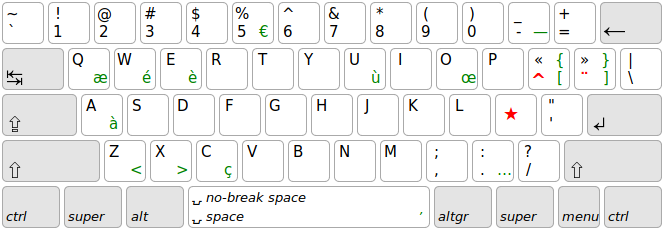
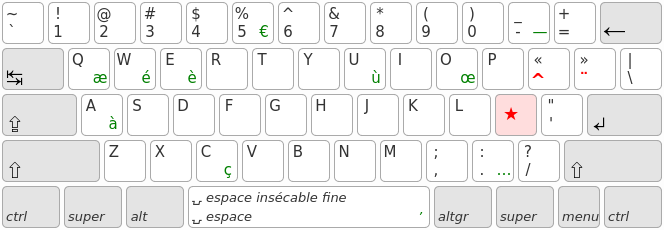
Better explanation of the AltGr layer. (#105)

diff --git a/index.html b/index.html
@@ -463,14 +463,14 @@
       <p>
         Sous la main droite, un pavé numérique virtuel (comparable à ceux des
         portables) est proposé. Il n’est pas très facile d’accès sous Linux (pas
-        de touche <kbd>AltGr</kbd> / <kbd>Ctrl+Alt</kbd> à gauche) mais permet
-        néanmoins de saisir rapidement des (0) ou [0], très fréquents dans les
-        langages de programmation.
+        de touche <kbd>AltGr</kbd> / <kbd>Ctrl</kbd><kbd>Alt</kbd> à gauche)
+        mais permet néanmoins de saisir rapidement des (0) ou [0], très
+        fréquents dans les langages de programmation.
       </p>
     </div>
   </div>
 
-  <h2 id="download"> Téléchargement </h2>
+  <h2 id="download"> Téléchargement <a href="#download">#</a> </h2>
   <dl class="download">
     <dt>
       <strong> Windows : </strong>
@@ -531,11 +531,13 @@
     </dd>
   </dl>
 
-  <h2 id="changelog"> Notes de version </h2>
+  <h2 id="changelog"> Notes de version <a href="#changelog">#</a> </h2>
   <dl>
     <dt> v0.8 (2023-01-22) </dt>
     <dd> <kbd>Shift</kbd><kbd>Espace</kbd> produit désormais une insécable fine. </dd>
-    <dd> La couche AltGr a été légèrement modifiée pour faciliter l’accès au tiret. </dd>
+    <dd> <kbd>AltGr</kbd><kbd>Espace</kbd> produit désormais une espace normale. </dd>
+    <dd> Les accolades, crochets et chevrons <code>{}[]&lt;&gt;</code> ne peuvent
+      plus se faire avec la touche morte, et nécessitent désormais <kbd>AltGr</kbd>. </dd>
     <dd> La couche AltGr de la variante <a href="./42">Lafayette42</a> est
       complètement revue pour la compatibilité avec les claviers 40% (42 et 34
       touches). </dd>
@@ -545,7 +547,7 @@
     <dd> La couche AltGr a été modifiée pour faciliter certains
       enchaînements : <code>+=</code>, <code>-=</code>, <code>=&gt;</code>,
       <code>('')</code>, <code>~/</code>, etc. </dd>
-    <dd> <kbd>AltGr</kbd><kbd>Espace</kbd> ne produit plus Escape
+    <dd> <kbd>AltGr</kbd><kbd>Espace</kbd> ne produit plus <kbd>Escape</kbd>
       (impossible à implémenter sous Windows).</dd>
 
     <dt> v0.5 (2015-12-10) </dt>
@@ -561,18 +563,18 @@
           <kbd>H</kbd><kbd>J</kbd><kbd>K</kbd><kbd>L</kbd> —
           <i>Vim powwa!</i> </li>
       </ul>
-      Mac OSX : meilleur fonctionnement des touches mortes en <kbd>CapsLock</kbd>. <br />
-      Linux : meilleur fonctionnement de la touche <kbd>AltGr</kbd> sous Chromium.
     </dd>
+    <dd> Mac OSX : meilleur fonctionnement des touches mortes en <kbd>CapsLock</kbd>. </dd>
+    <dd> Linux : meilleur fonctionnement de la touche <kbd>AltGr</kbd> sous Chromium. </dd>
 
     <dt> v0.2.1 (2013-03-05) </dt>
-    <dd> Linux : correction mineure. </dd>
+    <dd> Linux : correction du pilote XKB. </dd>
 
     <dt> v0.2 (2010-11-16) </dt>
     <dd> Windows : première version publique. </dd>
-    <dd> OSX : correction d’une erreur XML qui rendait le fichier keylayout
-      inutilisable. </dd>
-    <dd> Linux : correction des guillemets typographiques (<code>« »</code>). </dd>
+    <dd> OSX : correction du pilote <i>keylayout</i>. </dd>
+    <dd> Linux : correction du pilote XKB
+      (guillemets typographiques <code>« »</code>). </dd>
 
     <dt> v0.1 (2010-07-05) </dt>
     <dd> Première version publique (OSX, Linux). </dd>
@@ -589,8 +591,8 @@
     </li>
     <li>
       Mac OSX : tous les raccourcis <kbd>Cmd</kbd> conservent la disposition
-      QWERTY-US, notamment pour les raccourcis <kbd>Cmd</kbd>+<kbd>[</kbd> et
-      <kbd>Cmd</kbd>+<kbd>]</kbd> qui sont très courants sur cette plate-forme.
+      QWERTY-US, notamment pour les raccourcis <kbd>Cmd</kbd><kbd>[</kbd> et
+      <kbd>Cmd</kbd><kbd>]</kbd> qui sont très courants sur cette plate-forme.
     </li>
     <li>
       Mac OSX : la touche morte <kbd>★</kbd> se comporte comme un accent grave
@@ -598,38 +600,29 @@
       y remédier.
     </li>
   </ul>
-  <p>
-    <strong>Nota :</strong> cette disposition de clavier est encore susceptible
-    d’évoluer. La couche QWERTY est figée, mais certains caractères secondaires
-    pourront être ajoutés ou modifiés dans la couche « Extra ». Quant à la
-    couche « AltGr », elle est faite pour être reconfigurée : <a
-      href="https://github.com/fabi1cazenave/qwerty-lafayette/wiki/AltGr">proposez
-      votre disposition sur le wiki</a> pour contribuer à ce que sera la version
-    1.0 finale.
-  </p>
 
-  <h2 id="license"> Licence </h2>
+  <h2 id="license"> Licence <a href="#license">#</a> </h2>
   <p>
     <a href="http://wtfpl.net/">WTFPL</a>
     – Do What the Fuck You Want to Public License.
   </p>
 
-  <h2 id="lafayette42"> Variante compacte </h2>
+  <h2 id="lafayette42"> Variante compacte <a href="#lafayette42">#</a> </h2>
   <ul> <li> <a href="./42">Lafayette42</a> </li> </ul>
   <p> Cette variante du QWERTY-Lafayette, un peu moins intuitive, est
     spécifiquement conçue pour les claviers compacts : 50%, 40%, 42 ou 34
     touches… et même sur les claviers standards, où elle apporte un gain
     d’ergonomie sensible en réduisant nettement les extensions de doigts. </p>
 
-  <h2 id="related"> Alternatives classiques </h2>
+  <h2 id="related"> Alternatives classiques <a href="#related">#</a> </h2>
   <p> Dispositions QWERTY-US supportant les caractères accentués français : </p>
   <ul>
     <li>
       <a href="https://fr.wikipedia.org/wiki/Disposition_des_touches_des_claviers_informatiques#/media/File:KB_USA-international.svg">QWERTY-intl</a>
-      — les caractères accentués sont faits avec des touches mortes excentrées ; </li>
+      — tous les caractères accentués sont faits avec des touches mortes excentrées ; </li>
     <li>
-      <a href="http://marin.jb.free.fr/qwerty-fr/">QWERTY-fr</a>
-      — les caractères accentués sont faits avec <kbd>AltGr</kbd>.  </li>
+      <a href="https://qwerty-fr.org/">QWERTY-fr</a>
+      — la plupart des caractères accentués sont faits avec <kbd>AltGr</kbd>. </li>
   </ul>
   <p> Autres dispositions standard francophones avec les chiffres en direct : </p>
   <ul>
@@ -658,7 +651,7 @@
     typographique plus complet, mais requiert un temps d’apprentissage
     sensiblement plus long. </p>
 
-  <h2 id="ergo"> Alternatives ergonomiques </h2>
+  <h2 id="ergo"> Alternatives ergonomiques <a href="#ergo">#</a> </h2>
   <ul>
     <li> <a href="http://ergol.org/">ErgoL</a> </li>
     <li> <a href="http://bepo.fr/">Bépo</a> </li>

diff --git a/42.html b/42.html
@@ -104,8 +104,8 @@
   <img src="img/alt30.svg">
   <p> Cette couche AltGr a été conçue sur les principes suivants : </p>
   <ul>
-    <li> les délimiteurs de blocs <code>{()}[]</code> sont sur les touches les
-      plus confortables, i.e. <kbd>ASDFWE</kbd> ; </li>
+    <li> les délimiteurs de blocs <code>[]{()}</code> sont sur les touches les
+      plus confortables, i.e. <kbd>WEASDF</kbd> ; </li>
     <li> la première ligne contient les symboles les plus utiles de la rangée
       des chiffres : <code>$%^&amp;*</code> sous <kbd>45678</kbd>,
       <code>01</code> sous <kbd>01</kbd> ; </li>
@@ -144,7 +144,7 @@
   <img src="img/num30.svg">
   <p> Inversement, les utilisateurs de claviers 3×6 qui utilisent peu les
     symboles peuvent se satisfaire d’un seul <i>layer</i> pour tous les chiffres
-    et symboles ASCII — c’est moins efficace que la couce AltGr dédiée, mais
+    et symboles ASCII — c’est moins efficace que la couche AltGr dédiée, mais
     toujours mieux que le QWERTY-US. </p>
   <img src="img/alt36.svg">
 
@@ -152,8 +152,7 @@
   <dl class="download">
     <dt>
       <strong> Windows : </strong>
-      <a
-        href="./releases/lafayette42_windows_v0.8.exe">lafayette42_windows_v0.8.exe</a> (1.03 Mo)
+      <a href="./releases/lafayette42_windows_v0.8.exe">lafayette42_windows_v0.8.exe</a> (1.03 Mo)
     </dt>
     <dd>
       <p> Exécuter l’installeur. La disposition de clavier apparaît dans la
@@ -202,10 +201,10 @@
   <h2 id="changelog"> Notes de version <a href="#changelog">#</a> </h2>
   <dl>
     <dt> v0.8 (2023-01-22) </dt>
-    <dd> <kbd>Shift</kbd><kbd>Espace</kbd> produit désormais une insécable
-      fine. </dd>
+    <dd> <kbd>Shift</kbd><kbd>Espace</kbd> produit désormais une insécable fine. </dd>
+    <dd> <kbd>AltGr</kbd><kbd>Espace</kbd> produit désormais une espace normale. </dd>
     <dd> La couche AltGr est complètement revue pour la compatibilité avec les
-      claviers 40% (42 et 34 touches). </dd>
+      claviers 40% (3×6 et 3×5, e.g. 42 et 34 touches). </dd>
     <dt> v0.6 (2018-04-02) </dt>
     <dd> Première version publique, adaptée aux claviers 4×6. </dd>
   </ul>

diff --git a/css/keyboard.css b/css/keyboard.css
@@ -32,10 +32,10 @@
 }
 #keyboard kbd .level1 { bottom: 2px;  left: 0; }
 #keyboard kbd .level2 { top:    2px;  left: 0; }
-#keyboard kbd .level3,
-#keyboard kbd .level5 { bottom: 2px; right: 0; }
-#keyboard kbd .level4,
-#keyboard kbd .level6 { top:    2px; right: 0; }
+#keyboard kbd .level3 { bottom: 2px; right: 0; }
+#keyboard kbd .level4 { top:    2px; right: 0; }
+#keyboard kbd .level5 { bottom: 2px;  left: 0; }
+#keyboard kbd .level6 { top:    2px;  left: 0; }
 
 #keyboard kbd .deadKey {
   font-size: larger;

diff --git a/css/lafayette.css b/css/lafayette.css
@@ -38,6 +38,7 @@ kbd .level6 {
 }
 
 /* qwerty|lafayette|altgr class switcher */
+.home      kbd.qwerty,
 .qwerty    kbd.qwerty,
 .extra     #key_AC10,
 .lafayette #key_AC10 {
@@ -61,6 +62,7 @@ kbd .level6 {
 }
 
 /* altgr */
+.home .alt_only,
 .altgr .alt_only,
 .altgr #key_RALT {
   background-color: #ddf;
@@ -72,6 +74,7 @@ kbd .level6 {
 .altgr kbd .level4 {
   opacity: 0;
 }
+.home .alt_only .level5,
 .altgr kbd .level5,
 .altgr kbd .level6 {
   opacity: 1;
